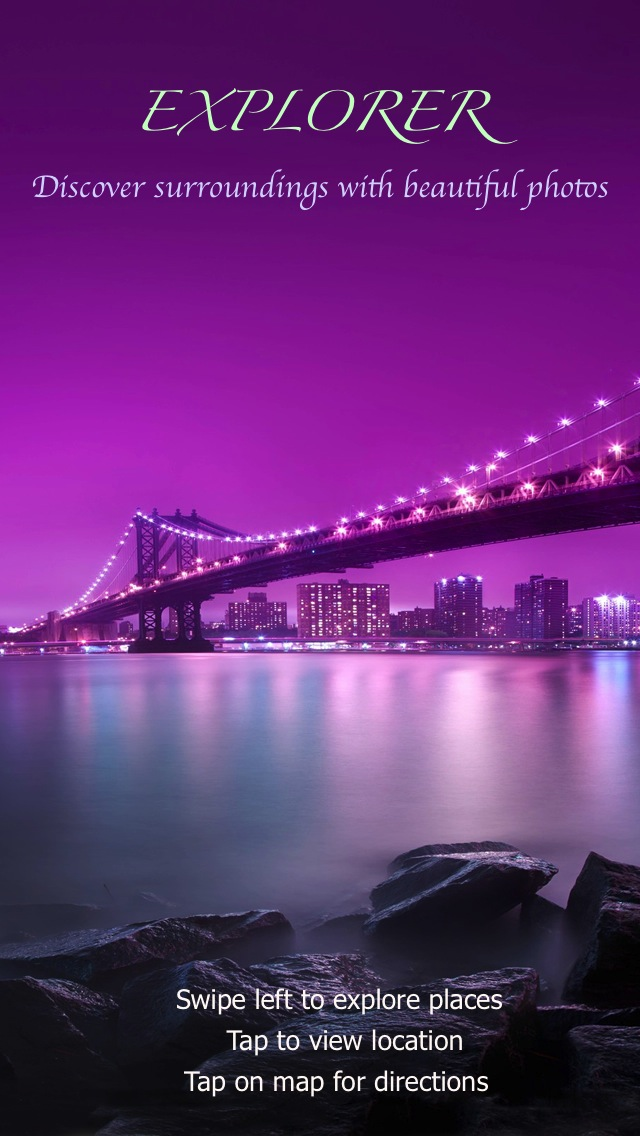
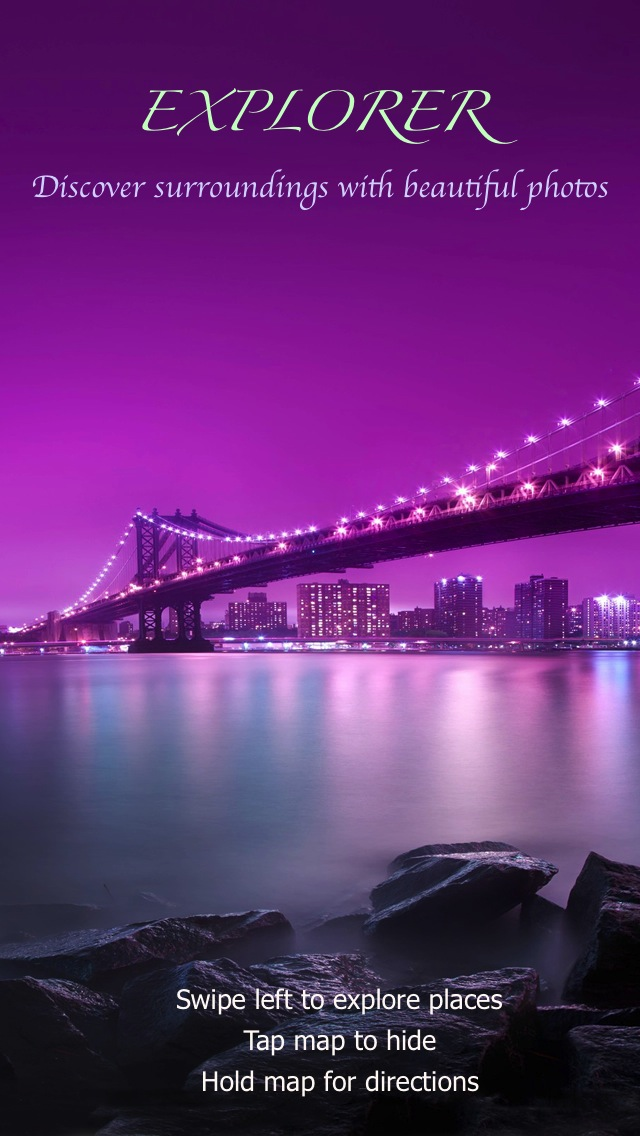
updated landing page

Changed region(s): [[0.2812, 0.8935, 0.75, 0.9859]]

diff --git a/Explorer/ContentViewController.m b/Explorer/ContentViewController.m
@@ -48,6 +48,7 @@
             [self.activityView startAnimating];
             
             [self.view addSubview:self.activityView];
+            self.mapView.hidden = YES;
         }
     }
 
@@ -99,9 +100,9 @@
                                       initWithTarget:self action:@selector(didTapMap)];
     [self.mapView addGestureRecognizer:tapRec];
     
-    UITapGestureRecognizer* tapRecImage = [[UITapGestureRecognizer alloc]
-                                      initWithTarget:self action:@selector(didTapImage)];
-    [self.imageToExplore addGestureRecognizer:tapRecImage];
+    UILongPressGestureRecognizer* longPressRec = [[UILongPressGestureRecognizer alloc]
+                                      initWithTarget:self action:@selector(didLongPressMap)];
+    [self.mapView addGestureRecognizer:longPressRec];
     
     //self.mapView.showsUserLocation = YES;
 }
@@ -112,20 +113,8 @@
     // Dispose of any resources that can be recreated.
 }
 
-- (void)didTapImage {
-    
-    if ( self.mapView.hidden ) {
-        self.mapView.hidden = NO;
-    } else {
-        self.mapView.hidden = YES;
-    }
-    
-}
-
-- (void)didTapMap {
-    NSLog(@"TapMap");
-    //[self.mapView]
-    
+- (void)didLongPressMap {
+  
     Class mapItemClass = [MKMapItem class];
     if (mapItemClass && [mapItemClass respondsToSelector:@selector(openMapsWithItems:launchOptions:)])
     {
@@ -148,7 +137,13 @@
         [MKMapItem openMapsWithItems:@[currentLocationMapItem, mapItem]
                        launchOptions:launchOptions];
     }
+}
+
+- (void)didTapMap {
+    NSLog(@"TapMap");
+    //[self.mapView]
     
+    self.mapView.hidden = YES;
 }
 
 -(void)parserDidEndDocument:(NSXMLParser *)parser {
